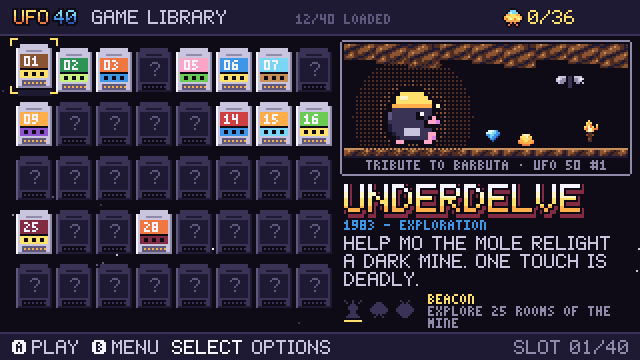
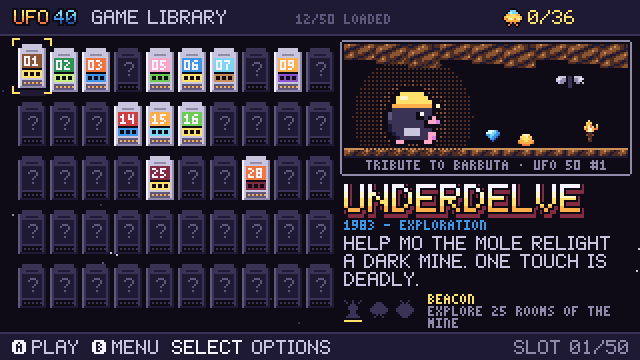
Library: 50 slots, one for every UFO 50 number
The name stays UFO 40; the library grows to fifty. GAME_SLOTS now follows
MAX_GAMES (50) everywhere: the 10x5 library grid (one decade per row, with
14-pixel cartridges so it keeps its panel), the LOADED and SLOT counters,
save data, wipe_saves, the jukebox and song tables, and the Vita LiveArea
line. The taglines read FIFTY GAMES FROM ANOTHER WORLD.

Progress files from the 40-slot layout still load: goals and play counts
for slots 01-40 carry over, settings stay, and the file is written back in
the new layout. tests/shell_save_migrate40.ufs writes an old file with the
new legacy_progress command and checks it.

README and web page: fifty cartridges, the name stayed 40 and the library
didn't, plus a note on the twists planned for later.

Changed region(s): [[0.0, 0.0917, 0.5312, 0.7028], [0.0, 0.7333, 0.5312, 0.8556], [0.9375, 0.9472, 0.9688, 0.9778]]

diff --git a/web/shell.html b/web/shell.html
@@ -3,7 +3,7 @@
 <head>
 <meta charset="utf-8">
 <meta name="viewport" content="width=device-width, initial-scale=1, maximum-scale=1, user-scalable=no, viewport-fit=cover">
-<meta name="description" content="UFO 40 - a fan-made parody console of forty tiny games. Play in your browser.">
+<meta name="description" content="UFO 40 - a fan-made parody console that is growing to fifty tiny games. Play in your browser.">
 <meta name="theme-color" content="#000000">
 <title>UFO 40</title>
 <link rel="icon" type="image/png" href="favicon.png">

diff --git a/src/shell/library.c b/src/shell/library.c
@@ -1,12 +1,14 @@
-/* UFO 40 - the game library: 40 cartridge slots. */
+/* UFO 40 - the game library: 50 cartridge slots, ten to a row, so each row
+ * is one decade of UFO 50 numbers (01-10, 11-20 ...). */
 #include "shell.h"
 
-#define GRID_X 8
+#define GRID_X 9
 #define GRID_Y 24
-#define CELL_W 20
+#define CELL_W 16
 #define CELL_H 27
-#define COLS 8
+#define COLS 10
 #define ROWS 5
+_Static_assert(COLS * ROWS == GAME_SLOTS, "the grid holds every slot");
 #define PANEL_X 172
 #define PANEL_W 142
 
@@ -67,35 +69,36 @@ static void lib_update(void) {
     }
 }
 
+/* A cartridge 14 pixels wide (the cell is 16). */
 static void draw_cart(int x, int y, int idx, bool sel) {
     const GameDef *g = GAMES[idx];
     int body = g ? C_LIGHT : C_DUSK, edge = g ? C_GREY : C_NIGHT, dark = g ? C_SLATE : C_INK;
-    gfx_rect(x + 2, y, 14, 2, body);
-    gfx_rect(x, y + 2, 18, 20, body);
-    gfx_vline(x + 17, y + 2, y + 21, edge);
-    gfx_hline(x, x + 17, y + 21, edge);
+    gfx_rect(x + 2, y, 10, 2, body);
+    gfx_rect(x, y + 2, 14, 20, body);
+    gfx_vline(x + 13, y + 2, y + 21, edge);
+    gfx_hline(x, x + 13, y + 21, edge);
     gfx_vline(x, y + 2, y + 21, g ? C_WHITE : C_SLATE);
     /* grip ridges */
-    for (int i = 0; i < 3; i++) gfx_hline(x + 5, x + 12, y + 1 + i * 1 + 1, i % 2 ? edge : body);
+    for (int i = 0; i < 3; i++) gfx_hline(x + 4, x + 9, y + 2 + i, i % 2 ? edge : body);
     char num[12];
     snprintf(num, sizeof num, "%02d", idx + 1);
     if (g) {
-        gfx_rect(x + 2, y + 5, 14, 12, g->cart_main);
-        gfx_rect(x + 2, y + 13, 14, 4, g->cart_accent);
-        gfx_hline(x + 2, x + 15, y + 12, C_INK);
-        tiny_draw(num, x + 4, y + 6, C_WHITE);
+        gfx_rect(x + 2, y + 5, 10, 12, g->cart_main);
+        gfx_rect(x + 2, y + 13, 10, 4, g->cart_accent);
+        gfx_hline(x + 2, x + 11, y + 12, C_INK);
+        tiny_draw(num, x + 3, y + 6, C_WHITE);
         /* goal pips */
         for (int b = 0; b < 3; b++) {
             bool on = (g_progress.goals[idx] >> b) & 1;
-            gfx_rect(x + 4 + b * 4, y + 14, 2, 2, on ? C_YELLOW : C_INK);
+            gfx_rect(x + 3 + b * 3, y + 14, 2, 2, on ? C_YELLOW : C_INK);
         }
     } else {
-        gfx_rect(x + 2, y + 5, 14, 12, C_NIGHT);
-        text_draw("?", x + 7, y + 7, sel ? C_GREY : C_SLATE);
+        gfx_rect(x + 2, y + 5, 10, 12, C_NIGHT);
+        text_draw("?", x + 5, y + 7, sel ? C_GREY : C_SLATE);
     }
     /* contacts */
-    gfx_rect(x + 3, y + 18, 12, 3, dark);
-    for (int i = 0; i < 6; i++) gfx_pset(x + 4 + i * 2, y + 19, g ? C_AMBER : C_DUSK);
+    gfx_rect(x + 2, y + 18, 10, 3, dark);
+    for (int i = 0; i < 5; i++) gfx_pset(x + 3 + i * 2, y + 19, g ? C_AMBER : C_DUSK);
 }
 
 static void draw_panel(void) {
@@ -197,7 +200,7 @@ static void lib_draw(void) {
     ui_fancy_text("40", 27, 5, 1, g_40, 3, C_INK, -1);
     text_draw("GAME LIBRARY", 46, 5, C_LIGHT);
     char buf[48];
-    snprintf(buf, sizeof buf, "%d/40 LOADED", available_count());
+    snprintf(buf, sizeof buf, "%d/%d LOADED", available_count(), GAME_SLOTS);
     tiny_draw(buf, 148, 7, C_SLATE);
     snprintf(buf, sizeof buf, "%d/%d", progress_goal_count(), available_count() * 3);
     ui_goal_icon(252, 4, GOAL_SAUCER, true, t);
@@ -216,12 +219,12 @@ static void lib_draw(void) {
             x += shake;
         }
         if (sel && launching && launch_t > 20 && (launch_t / 2) % 2) continue;
-        if (sel) gfx_rect(x + 1, y + 21, 17, 3, C_NIGHT); /* shadow */
+        if (sel) gfx_rect(x + 1, y + 21, 13, 3, C_NIGHT); /* shadow */
         draw_cart(x, y - lift, i, sel);
         if (sel && !launching) {
             int bl = (t / 16) % 2;
             int col = GAMES[i] ? C_YELLOW : C_GREY;
-            int x0 = x - 2 - bl, y0 = y - lift - 2 - bl, x1 = x + 19 + bl, y1 = y - lift + 23 + bl;
+            int x0 = x - 2 - bl, y0 = y - lift - 2 - bl, x1 = x + 15 + bl, y1 = y - lift + 23 + bl;
             gfx_hline(x0, x0 + 3, y0, col); gfx_vline(x0, y0, y0 + 3, col);
             gfx_hline(x1 - 3, x1, y0, col); gfx_vline(x1, y0, y0 + 3, col);
             gfx_hline(x0, x0 + 3, y1, col); gfx_vline(x0, y1 - 3, y1, col);
@@ -237,7 +240,7 @@ static void lib_draw(void) {
     fx = ui_hint(fx, 170, GLYPH_B, "MENU", C_LIGHT);
     fx = text_draw("SELECT", fx, 170, C_WHITE);
     text_draw("OPTIONS", fx + 4, 170, C_LIGHT);
-    snprintf(buf, sizeof buf, "SLOT %02d/40", g_library_cursor + 1);
+    snprintf(buf, sizeof buf, "SLOT %02d/%d", g_library_cursor + 1, GAME_SLOTS);
     text_draw(buf, SCREEN_W - 6 - text_width(buf), 170, C_GREY);
 }
 

diff --git a/src/platform/headless/main_headless.c b/src/platform/headless/main_headless.c
@@ -368,6 +368,42 @@ static int run_script(const char *path) {
             char fname[32];
             snprintf(fname, sizeof fname, "game%02d.sav", gi + 1);
             plat_save_write(fname, blob, bytes);
+        } else if (!strcmp(cmd, "legacy_progress")) {
+            /* legacy_progress MUSIC SFX LAST SLOT BITS [SLOT BITS ...] : write a
+             * progress file in the old 40-slot layout (goals[40], played[40],
+             * settings), as a UFO 40 from before the library grew would have
+             * left it. SLOT is 1-based; each listed slot counts as played once. */
+            uint8_t old[PROGRESS_LEGACY40_SIZE + 16];
+            uint8_t *b = old + 16;
+            memset(old, 0, sizeof old);
+            char tmp[256];
+            snprintf(tmp, sizeof tmp, "%s", arg);
+            int vals[64], nv = 0;
+            for (char *tok = strtok(tmp, " \t"); tok && nv < 64; tok = strtok(NULL, " \t")) vals[nv++] = atoi(tok);
+            if (nv < 3 || (nv - 3) % 2) { fail("bad legacy_progress: %s%ld", arg, 0); continue; }
+            for (int i = 3; i + 1 < nv; i += 2) {
+                int slot = vals[i] - 1;
+                if (slot < 0 || slot >= LEGACY_GAMES) { fail("bad legacy_progress slot: %s%ld", arg, vals[i]); continue; }
+                b[slot] = (uint8_t)(vals[i + 1] & 7);
+                b[LEGACY_GAMES + slot] = 1;
+            }
+            uint8_t *st = b + 2 * LEGACY_GAMES;
+            st[0] = (uint8_t)vals[0]; st[1] = (uint8_t)vals[1]; st[2] = 3; st[3] = 0;
+            st[4] = (uint8_t)vals[2]; st[5] = 0;
+            uint32_t hdr[4] = {0x30344655u, 1u, (uint32_t)PROGRESS_LEGACY40_SIZE, crc32_buf(b, PROGRESS_LEGACY40_SIZE)};
+            for (int k = 0; k < 4; k++)
+                for (int j = 0; j < 4; j++) old[k * 4 + j] = (uint8_t)(hdr[k] >> (8 * j));
+            plat_save_write("progress.dat", old, (int)sizeof old);
+        } else if (!strcmp(cmd, "progress_bytes")) {
+            /* progress_bytes N : the progress file on disk holds N bytes of data */
+            checks++;
+            uint8_t buf[1024];
+            int n = plat_save_read("progress.dat", buf, (int)sizeof buf);
+            int want = atoi(arg);
+            if (n - 16 != want) {
+                failures++;
+                fprintf(stderr, "FAIL %s:%d: progress file holds %d bytes, expected %d\n", script_name, line_no, n - 16, want);
+            }
         } else if (!strcmp(cmd, "set_goals")) {
             /* set_goals GAME BITS : set a cartridge's goals (1 beacon, 2 saucer, 4 alien) */
             char name[64] = {0};

diff --git a/src/engine/save.c b/src/engine/save.c
@@ -6,6 +6,9 @@
 
 Progress g_progress;
 
+_Static_assert(sizeof(Progress) == 2 * MAX_GAMES + 20, "Progress is bytes only, no padding");
+_Static_assert(sizeof(Progress) != PROGRESS_LEGACY40_SIZE, "the two layouts must differ in size");
+
 #define SAVE_MAGIC 0x30344655u /* "UF40" little-endian */
 #define SAVE_VERSION 1
 #define HEADER_SIZE 16
@@ -67,11 +70,35 @@ void progress_defaults(void) {
     g_progress.fullscreen = 0;
 }
 
+/* A progress file from the 40-slot library: goals[40], played[40], then the
+ * settings bytes in the order they still have. Slots 01-40 keep their goals
+ * and play counts; 41-50 start empty. */
+static void progress_from_legacy40(const uint8_t *b) {
+    progress_defaults();
+    memcpy(g_progress.goals, b, LEGACY_GAMES);
+    memcpy(g_progress.played, b + LEGACY_GAMES, LEGACY_GAMES);
+    const uint8_t *st = b + 2 * LEGACY_GAMES;
+    g_progress.music_vol = st[0];
+    g_progress.sfx_vol = st[1];
+    g_progress.scale = st[2];
+    g_progress.fullscreen = st[3];
+    g_progress.last_game = st[4];
+    g_progress.menu_pos = st[5];
+    memcpy(g_progress.reserved, st + 6, sizeof g_progress.reserved);
+}
+
 bool progress_load(void) {
-    Progress p;
-    int n = read_wrapped("progress.dat", &p, (int)sizeof p);
-    if (n != (int)sizeof p) { progress_defaults(); return false; }
-    g_progress = p;
+    union { Progress p; uint8_t raw[sizeof(Progress)]; } u;
+    int n = read_wrapped("progress.dat", &u, (int)sizeof u);
+    if (n == PROGRESS_LEGACY40_SIZE) {
+        progress_from_legacy40(u.raw);
+        progress_save(); /* written back in the 50-slot layout */
+    } else if (n == (int)sizeof u.p) {
+        g_progress = u.p;
+    } else {
+        progress_defaults();
+        return false;
+    }
     if (g_progress.music_vol > 10) g_progress.music_vol = 7;
     if (g_progress.sfx_vol > 10) g_progress.sfx_vol = 8;
     if (g_progress.scale < 1 || g_progress.scale > 8) g_progress.scale = 3;

diff --git a/src/shell/menu.c b/src/shell/menu.c
@@ -101,7 +101,7 @@ static void footer(const char *a_label, const char *b_label) {
 static void menu_draw(void) {
     ui_starfield(t, C_INK);
     ui_logo(160, 10, 3, t);
-    tiny_center("FORTY GAMES FROM ANOTHER WORLD", 160, 54, C_SKY);
+    tiny_center("FIFTY GAMES FROM ANOTHER WORLD", 160, 54, C_SKY);
     int bob = (int)(sinf((float)t * 0.06f) * 3.0f);
     ui_saucer(262, 118 + bob, t, 1);
     ui_saucer(36, 96 - bob, t + 13, 1);
@@ -125,7 +125,7 @@ static void menu_draw(void) {
     int w = text_width(buf);
     text_draw(buf, SCREEN_W - 6 - w, 170, C_YELLOW);
     ui_goal_icon(SCREEN_W - 18 - w, 169, GOAL_SAUCER, true, t);
-    snprintf(buf, sizeof buf, "%d/40 LOADED " GLYPH_DOT " %s", loaded_count(), plat_name());
+    snprintf(buf, sizeof buf, "%d/%d LOADED " GLYPH_DOT " %s", loaded_count(), GAME_SLOTS, plat_name());
     tiny_draw(buf, 104, 172, C_SLATE);
 }
 

diff --git a/src/engine/save.h b/src/engine/save.h
@@ -6,7 +6,10 @@
 #include <stdint.h>
 #include <stdbool.h>
 
-#define MAX_GAMES 40
+/* Fifty slots, one for each UFO 50 number (the name stayed 40). Progress
+ * files written when there were 40 slots still load: see progress_load. */
+#define MAX_GAMES 50
+#define LEGACY_GAMES 40
 
 enum { GOAL_BEACON = 1, GOAL_SAUCER = 2, GOAL_ALIEN = 4 };
 
@@ -28,6 +31,9 @@ uint32_t crc32_buf(const void *data, int len);
 
 void progress_defaults(void);
 bool progress_load(void);
+/* Size in bytes of the progress record from the 40-slot days (goals[40],
+ * played[40], then the same settings bytes). progress_load upgrades it. */
+#define PROGRESS_LEGACY40_SIZE (2 * LEGACY_GAMES + 20)
 bool progress_save(void);
 /* Returns true if the goal was newly earned (queues a toast). */
 bool progress_award(int game, int goal_bit);

diff --git a/src/platform/headless/vita_assets.c b/src/platform/headless/vita_assets.c
@@ -82,12 +82,12 @@ void vita_assets_render(const char *dir) {
             gfx_noclip();
         }
         ui_logo(140, 58, 2, 0);
-        tiny_center("FORTY GAMES FROM ANOTHER WORLD", 140, 150, C_SKY);
+        tiny_center("FIFTY GAMES FROM ANOTHER WORLD", 140, 150, C_SKY);
         {
             char line[48];
             int loaded = 0;
             for (int i = 0; i < GAME_SLOTS; i++) loaded += GAMES[i] != NULL;
-            snprintf(line, sizeof line, "%d OF 40 CARTRIDGES LOADED", loaded);
+            snprintf(line, sizeof line, "%d OF %d CARTRIDGES LOADED", loaded, GAME_SLOTS);
             tiny_center(line, 140, 158, C_SLATE);
         }
         snprintf(path, sizeof path, "%s/livearea/contents/bg.png", dir);

diff --git a/src/shell/boot.c b/src/shell/boot.c
@@ -81,7 +81,7 @@ static void boot_draw(void) {
         int a = t - 176;
         int col = a < 4 ? C_DUSK : a < 8 ? C_SLATE : a < 12 ? C_GREY : C_LIGHT;
         text_center("BEAMDOWN SOFTWORKS", 160, 118, col);
-        tiny_center("FORTY GAMES FROM ANOTHER WORLD", 160, 130, a < 12 ? C_DUSK : C_SKY);
+        tiny_center("FIFTY GAMES FROM ANOTHER WORLD", 160, 130, a < 12 ? C_DUSK : C_SKY);
     }
     if (t > 210 && (t / 20) % 2 == 0) text_center("PRESS ANY BUTTON", 160, 146, C_YELLOW);
     tiny_center("A FAN-MADE PARODY TRIBUTE", 160, 170, C_DUSK);

diff --git a/src/shell/games.c b/src/shell/games.c
@@ -1,6 +1,7 @@
 /* UFO 40 - the cartridge slots. A cartridge sits in the slot with the number
  * of the UFO 50 game it pays tribute to; the empty slots are still in the
- * saucer's cargo hold. Slots 41-50 don't exist: UFO 40 stops at 40. */
+ * saucer's cargo hold. There are fifty slots, one for every UFO 50 number:
+ * the name stayed 40, the library didn't. */
 #include "gamedef.h"
 
 extern const GameDef GAME_UNDERDELVE;

diff --git a/src/shell/savedata.c b/src/shell/savedata.c
@@ -247,7 +247,7 @@ static void draw_confirm(void) {
         break;
     case ASK_ALL_1:
         snprintf(q, sizeof q, "DELETE ALL DATA?");
-        snprintf(d, sizeof d, "EVERY SAVE, GOAL AND PLAY COUNT, ALL 40 SLOTS.");
+        snprintf(d, sizeof d, "EVERY SAVE, GOAL AND PLAY COUNT, ALL %d SLOTS.", GAME_SLOTS);
         border = C_RED;
         break;
     default:

diff --git a/src/shell/app.c b/src/shell/app.c
@@ -10,7 +10,7 @@ int g_library_cursor;
 int g_jukebox_song = -1;
 
 /* which cartridge defined each song, recorded while the cartridges load */
-#define OWNER_MAX 256
+#define OWNER_MAX 384
 static int8_t song_owner[OWNER_MAX];
 static bool owners_ready;
 

diff --git a/src/engine/audio.c b/src/engine/audio.c
@@ -42,7 +42,7 @@ typedef struct Sfx {
     Track tr;
 } Sfx;
 
-#define MAX_SONGS 256 /* room for forty cartridges */
+#define MAX_SONGS 384 /* room for fifty cartridges */
 #define MAX_SFX 768
 
 static Song songs[MAX_SONGS];
